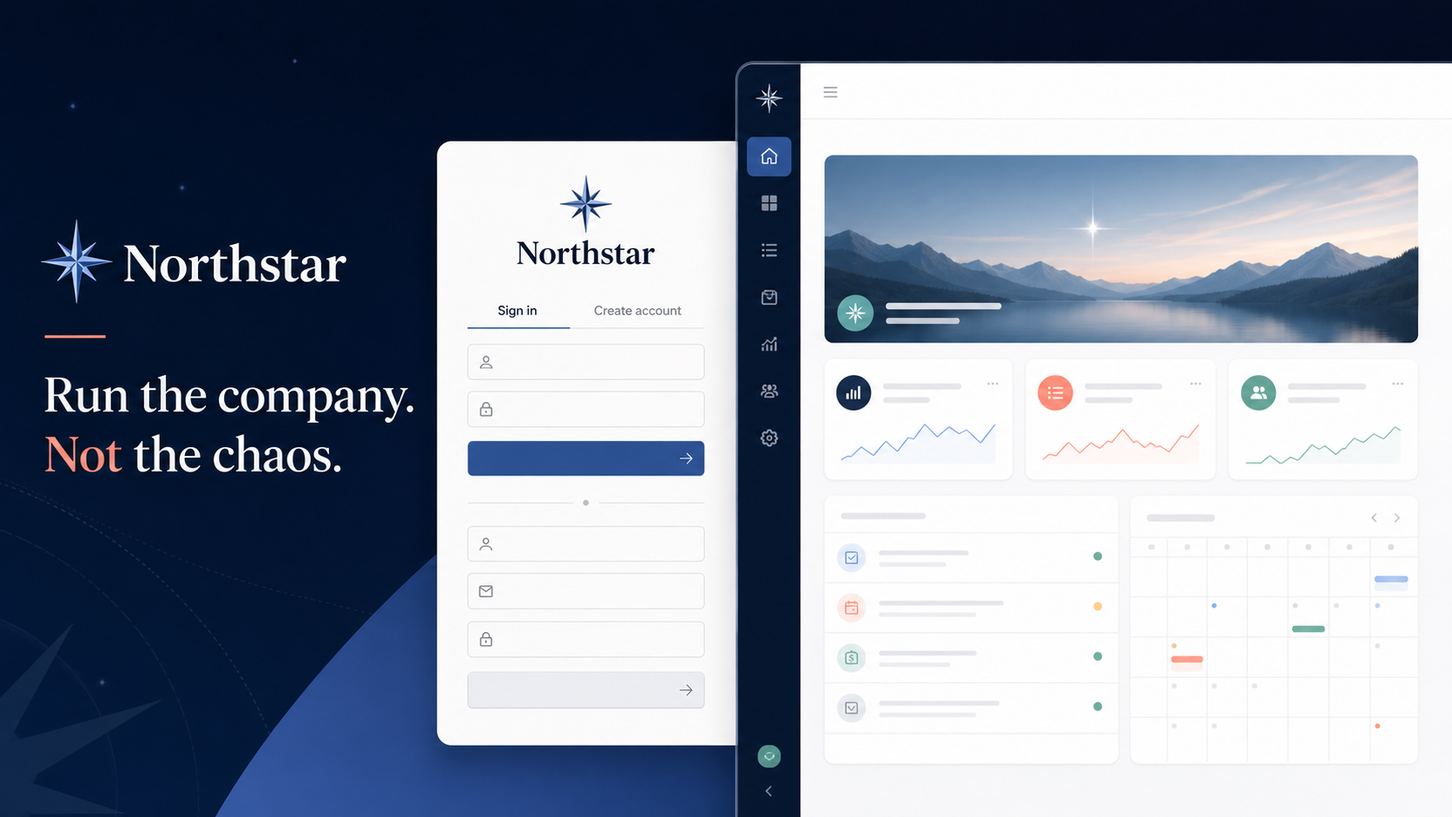
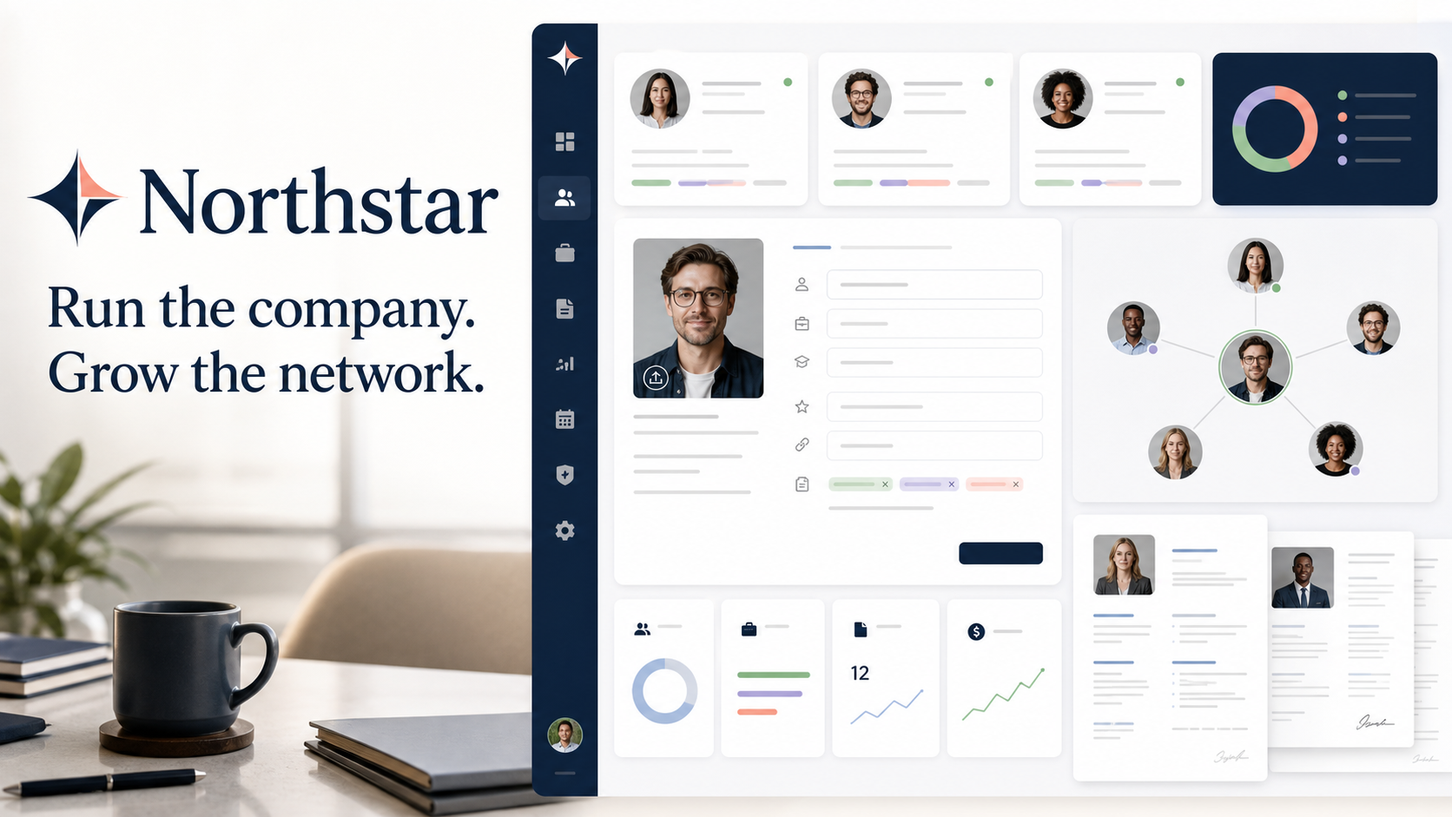
Add profiles resumes and people network

diff --git a/app/startup-os.tsx b/app/startup-os.tsx
@@ -3,8 +3,8 @@
 import { useEffect, useMemo, useState } from "react";
 import type { DashboardData } from "@/db/bootstrap";
 
-const navItems = ["Overview", "Goals", "CRM", "Team", "Reports"] as const;
-const icons: Record<string, string> = { Overview: "⌂", Goals: "◎", CRM: "◇", Team: "◌", Reports: "▤" };
+const navItems = ["Overview", "Goals", "CRM", "People", "Team", "Reports", "Settings"] as const;
+const icons: Record<string, string> = { Overview: "⌂", Goals: "◎", CRM: "◇", People: "◉", Team: "◌", Reports: "▤", Settings: "⚙" };
 
 export function StartupOS({ user, onSignOut }: { user?: { name: string; email: string }; onSignOut?: () => void }) {
   const [data, setData] = useState<DashboardData | null>(null);
@@ -66,11 +66,11 @@ export function StartupOS({ user, onSignOut }: { user?: { name: string; email: s
       <div className="brand"><span className="brand-mark">N</span><span>northstar</span></div>
       <div className="workspace"><span className="avatar small">A</span><span><b>Arc Labs</b><small>Growth workspace</small></span><span className="chevron">⌄</span></div>
       <nav aria-label="Main navigation"><p className="nav-label">Workspace</p>{navItems.map((item) => <button key={item} className={active === item ? "nav-item active" : "nav-item"} onClick={() => { setActive(item); setMenuOpen(false); }}><span>{icons[item]}</span>{item}{item === "Overview" && pending.length ? <em>{pending.length}</em> : null}</button>)}</nav>
-      <div className="sidebar-bottom"><button className="nav-item"><span>⚙</span>Settings</button><div className="profile"><span className="avatar">{user?.name?.slice(0,2).toUpperCase() || "VS"}</span><span><b>{user?.name || "Vijetha"}</b><small>{user?.email || "Founder · Admin"}</small></span><span className="status-dot" /></div></div>
+      <div className="sidebar-bottom"><button className="profile profile-button" onClick={()=>setActive("Settings")}><span className="avatar">{user?.name?.slice(0,2).toUpperCase() || "VS"}</span><span><b>{user?.name || "Vijetha"}</b><small>{user?.email || "Founder · Admin"}</small></span><span className="status-dot" /></button></div>
     </aside>
     <section className="main-area">
       <header className="topbar"><button className="menu-button" onClick={() => setMenuOpen(!menuOpen)} aria-label="Toggle navigation">☰</button><div className="breadcrumb"><span>Arc Labs</span><b>/</b><strong>{active}</strong></div><div className="top-actions"><button className="theme-button" onClick={toggleTheme} aria-label="Switch light or dark mode">◐</button><button className="icon-button" aria-label="Notifications">♢<i>{pending.length}</i></button><button className="primary-button" onClick={() => document.getElementById("ask-input")?.focus()}>✦ Ask Northstar</button><button className="signout-button" onClick={onSignOut}>Sign out</button></div></header>
-      <div className="content">{active === "Overview" ? <Overview data={data} pending={pending} approve={approve} loadingId={loadingId} query={query} setQuery={setQuery} answer={answer} ask={askNorthstar} /> : <ModulePage active={active} data={data} />}{error ? <div className="toast" role="alert">{error}</div> : null}</div>
+      <div className="content">{active === "Overview" ? <Overview data={data} pending={pending} approve={approve} loadingId={loadingId} query={query} setQuery={setQuery} answer={answer} ask={askNorthstar} /> : active === "People" ? <PeoplePage user={user!}/> : active === "Settings" ? <SettingsPage user={user!} onSaved={(next)=>{window.localStorage.setItem("northstar-demo-session",JSON.stringify(next));window.dispatchEvent(new Event("northstar-session-change"));}}/> : <ModulePage active={active} data={data} user={user!} />}{error ? <div className="toast" role="alert">{error}</div> : null}</div>
     </section>
   </main>;
 }
@@ -96,13 +96,14 @@ function Overview({ data, pending, approve, loadingId, query, setQuery, answer, 
 type WorkspaceRecord = { id:string; type:string; title:string; subtitle:string; status:string; value:string; progress:number; owner:string };
 type WorkspacePayload = { session:{organization:{name:string};role:"owner"|"member"}; records:WorkspaceRecord[] };
 
-function ModulePage({ active, data }: { active: string; data: DashboardData }) {
+function ModulePage({ active, data, user }: { active: string; data: DashboardData; user:{name:string;email:string} }) {
   const [workspace,setWorkspace]=useState<WorkspacePayload|null>(null);
   const [showCreate,setShowCreate]=useState(false);
   const [saving,setSaving]=useState(false);
   const [moduleError,setModuleError]=useState("");
   const [form,setForm]=useState({title:"",subtitle:"",value:""});
-  useEffect(()=>{fetch("/api/workspace").then(async response=>{if(!response.ok)throw new Error((await response.json()).error||"Unable to load workspace");return response.json() as Promise<WorkspacePayload>;}).then(setWorkspace).catch(error=>setModuleError(error instanceof Error?error.message:"Unable to load workspace"));},[]);
+  const authHeaders={"x-demo-email":user.email,"x-demo-name":user.name};
+  useEffect(()=>{fetch("/api/workspace",{headers:authHeaders}).then(async response=>{if(!response.ok)throw new Error((await response.json()).error||"Unable to load workspace");return response.json() as Promise<WorkspacePayload>;}).then(setWorkspace).catch(error=>setModuleError(error instanceof Error?error.message:"Unable to load workspace"));},[user.email,user.name]);
   const type=active==="Goals"?"goal":active==="CRM"?"deal":active==="Team"?"role":"report";
   const config: Record<string, { eyebrow:string; title:string; copy:string; singular:string; defaultStatus:string }> = {
     Goals:{eyebrow:"STRATEGY & EXECUTION",title:"Every priority, clearly owned.",copy:"Connect company goals to initiatives, owners, and measurable outcomes.",singular:"goal",defaultStatus:"Planned"},
@@ -111,7 +112,7 @@ function ModulePage({ active, data }: { active: string; data: DashboardData }) {
     Reports:{eyebrow:"AUTOMATED REPORTING",title:"Your operating review is ready.",copy:"Turn live company data into a clear weekly update for your team and investors.",singular:"report",defaultStatus:"Draft"},
   };
   const item=config[active],records=workspace?.records.filter(record=>record.type===type)||[];
-  async function mutate(method:"POST"|"PATCH"|"DELETE",body:Record<string,unknown>){setSaving(true);setModuleError("");try{const response=await fetch("/api/workspace",{method,headers:{"Content-Type":"application/json"},body:JSON.stringify(body)});const payload=await response.json() as WorkspacePayload&{error?:string};if(!response.ok)throw new Error(payload.error||"Unable to save record");setWorkspace(payload);return true;}catch(error){setModuleError(error instanceof Error?error.message:"Unable to save record");return false;}finally{setSaving(false);}}
+  async function mutate(method:"POST"|"PATCH"|"DELETE",body:Record<string,unknown>){setSaving(true);setModuleError("");try{const response=await fetch("/api/workspace",{method,headers:{"Content-Type":"application/json",...authHeaders},body:JSON.stringify(body)});const payload=await response.json() as WorkspacePayload&{error?:string};if(!response.ok)throw new Error(payload.error||"Unable to save record");setWorkspace(payload);return true;}catch(error){setModuleError(error instanceof Error?error.message:"Unable to save record");return false;}finally{setSaving(false);}}
   async function create(event:React.FormEvent){event.preventDefault();if(!form.title.trim())return;const ok=await mutate("POST",{type,title:form.title,subtitle:form.subtitle||`New ${item.singular}`,value:form.value||"—",status:item.defaultStatus,progress:0});if(ok){setForm({title:"",subtitle:"",value:""});setShowCreate(false);}}
   return <>
     <section className="page-heading module-heading"><div><span className="eyebrow">{item.eyebrow}</span><h1>{item.title}</h1><p>{workspace?.session.organization.name||item.copy} · {item.copy}</p></div><button className="primary-button" onClick={()=>setShowCreate(true)}>+ Create {item.singular}</button></section>
@@ -119,4 +120,25 @@ function ModulePage({ active, data }: { active: string; data: DashboardData }) {
     <section className="panel module-table"><div className="panel-header"><div><span className="eyebrow blue">LIVE DATABASE</span><h2>{records.length} {item.singular}{records.length===1?"":"s"}</h2></div><span className="save-state">{saving?"Saving…":"All changes saved"}</span></div>{moduleError?<div className="module-error">{moduleError}</div>:null}{!workspace?<div className="module-empty">Loading your workspace…</div>:records.length===0?<div className="module-empty">No {item.singular}s yet. Create the first one.</div>:records.map(record=><div className="record-row" key={record.id}><span className={`record-icon ${type}`}>{type==="goal"?"◎":type==="deal"?"↗":type==="role"?"◌":"▤"}</span><div className="record-copy"><b>{record.title}</b><small>{record.subtitle} · {record.owner}</small></div><span className="table-progress"><i style={{width:`${record.progress}%`}}/></span><em>{record.value}</em><button className="status-button" onClick={()=>mutate("PATCH",{id:record.id,status:record.status==="Complete"?item.defaultStatus:"Complete",progress:record.status==="Complete"?50:100})}>{record.status}</button>{workspace.session.role==="owner"?<button className="delete-button" onClick={()=>mutate("DELETE",{id:record.id})} aria-label={`Delete ${record.title}`}>×</button>:null}</div>)}</section>
     {showCreate?<div className="modal-backdrop" role="presentation" onMouseDown={()=>setShowCreate(false)}><form className="create-modal" onSubmit={create} onMouseDown={event=>event.stopPropagation()}><div className="modal-heading"><div><span className="eyebrow coral">NEW {item.singular.toUpperCase()}</span><h2>Create {item.singular}</h2></div><button type="button" onClick={()=>setShowCreate(false)}>×</button></div><label>Title<input autoFocus value={form.title} onChange={event=>setForm({...form,title:event.target.value})} placeholder={`Name this ${item.singular}`} required/></label><label>Description<input value={form.subtitle} onChange={event=>setForm({...form,subtitle:event.target.value})} placeholder="Add useful context"/></label><label>{type==="deal"?"Deal value":"Target or label"}<input value={form.value} onChange={event=>setForm({...form,value:event.target.value})} placeholder={type==="deal"?"$25k":"Q3"}/></label><div className="modal-actions"><button type="button" className="cancel-button" onClick={()=>setShowCreate(false)}>Cancel</button><button className="primary-button" disabled={saving}>{saving?"Creating…":`Create ${item.singular}`}</button></div></form></div>:null}
   </>;
+}
+
+type NetworkPayload={profile:{name:string;email:string;headline:string;location:string;bio:string;skills:string;resume_name:string};people:Array<{id:string;name:string;email:string;headline?:string;location?:string;skills?:string;connection_status:string}>};
+const demoHeaders=(user:{name:string;email:string})=>({"x-demo-email":user.email,"x-demo-name":user.name});
+
+function PeoplePage({user}:{user:{name:string;email:string}}){
+  const [data,setData]=useState<NetworkPayload|null>(null),[query,setQuery]=useState(""),[error,setError]=useState("");
+  const load=()=>fetch("/api/people",{headers:demoHeaders(user)}).then(async r=>{const body=await r.json();if(!r.ok)throw new Error(body.error);return body as NetworkPayload}).then(setData).catch(e=>setError(e.message));
+  useEffect(load,[user.email,user.name]);
+  async function connectPerson(id:string){const r=await fetch("/api/people",{method:"POST",headers:{"Content-Type":"application/json",...demoHeaders(user)},body:JSON.stringify({recipientId:id})});const body=await r.json();if(r.ok)setData(body);else setError(body.error);}
+  const people=data?.people.filter(p=>`${p.name} ${p.headline||""} ${p.location||""}`.toLowerCase().includes(query.toLowerCase()))||[];
+  return <><section className="page-heading people-heading"><div><span className="eyebrow coral">PEOPLE NETWORK</span><h1>Find the people who move ideas forward.</h1><p>A trusted founder network, built into your operating system.</p></div><div className="network-count"><b>{data?.people.filter(p=>p.connection_status==="connected").length||0}</b><span>connections</span></div></section><section className="people-toolbar"><input value={query} onChange={e=>setQuery(e.target.value)} placeholder="Search by name, role, or location…"/><button>Discover people</button></section>{error?<div className="module-error">{error}</div>:null}<section className="people-grid">{people.map((person,index)=><article className="person-card" key={person.id}><div className={`person-cover cover-${index%4}`}><span>{person.name.split(" ").map(n=>n[0]).join("")}</span></div><div className="person-body"><h3>{person.name}</h3><p>{person.headline||["Product leader","Growth strategist","Founding engineer","Design systems lead"][index%4]}</p><small>⌖ {person.location||["San Francisco","Bengaluru","Seoul","London"][index%4]}</small><div className="skill-row">{(person.skills||["Strategy,Product","Growth,GTM","Engineering,AI","Design,Systems"][index%4]).split(",").slice(0,2).map(skill=><span key={skill}>{skill}</span>)}</div><button className={person.connection_status==="connected"?"connected":""} onClick={()=>connectPerson(person.id)} disabled={person.connection_status==="connected"}>{person.connection_status==="connected"?"✓ Connected":"＋ Connect"}</button></div></article>)}</section></>;
+}
+
+function SettingsPage({user,onSaved}:{user:{name:string;email:string};onSaved:(u:{name:string;email:string})=>void}){
+  const [form,setForm]=useState({name:user.name,email:user.email,headline:"Founder & CEO",location:"Bengaluru, India",bio:"Building thoughtful products and high-agency teams.",skills:"Strategy, Product, Fundraising"});
+  const [resume,setResume]=useState(""),[status,setStatus]=useState(""),[tab,setTab]=useState("Profile");
+  useEffect(()=>{fetch("/api/people",{headers:demoHeaders(user)}).then(r=>r.json()).then((d:NetworkPayload)=>{if(d.profile){setForm({...form,...d.profile,name:d.profile.name||user.name,email:user.email});setResume(d.profile.resume_name||"");}}).catch(()=>{});},[user.email]);
+  async function save(e:React.FormEvent){e.preventDefault();setStatus("Saving…");const r=await fetch("/api/people",{method:"PATCH",headers:{"Content-Type":"application/json",...demoHeaders(user)},body:JSON.stringify(form)});if(r.ok){onSaved({name:form.name,email:user.email});setStatus("Changes saved");}else setStatus("Could not save changes");}
+  async function upload(file?:File){if(!file)return;setStatus("Uploading résumé…");const body=new FormData();body.append("resume",file);const r=await fetch("/api/resume",{method:"POST",headers:demoHeaders(user),body});const data=await r.json();if(r.ok){setResume(data.name);setStatus("Résumé uploaded");}else setStatus(data.error);}
+  return <><section className="page-heading"><div><span className="eyebrow blue">WORKSPACE SETTINGS</span><h1>Make Northstar yours.</h1><p>Manage your public identity, documents, and workspace preferences.</p></div></section><div className="settings-layout"><aside className="settings-nav">{["Profile","Documents","Appearance","Security"].map(item=><button key={item} className={tab===item?"active":""} onClick={()=>setTab(item)}>{item}</button>)}</aside><section className="settings-card">{tab==="Profile"?<form onSubmit={save}><div className="profile-editor-head"><span className="profile-photo">{form.name.slice(0,2).toUpperCase()}</span><div><h2>Public profile</h2><p>This is how founders and collaborators see you.</p></div></div><div className="form-grid"><label>Full name<input value={form.name} onChange={e=>setForm({...form,name:e.target.value})}/></label><label>Email<input value={form.email} disabled/></label><label className="wide">Professional headline<input value={form.headline} onChange={e=>setForm({...form,headline:e.target.value})}/></label><label>Location<input value={form.location} onChange={e=>setForm({...form,location:e.target.value})}/></label><label>Skills<input value={form.skills} onChange={e=>setForm({...form,skills:e.target.value})}/></label><label className="wide">About<textarea value={form.bio} onChange={e=>setForm({...form,bio:e.target.value})}/></label></div><button className="primary-button">Save profile</button></form>:tab==="Documents"?<div><h2>Résumé & documents</h2><p>Upload your résumé so collaborators can understand your experience.</p><label className="resume-drop"><input type="file" accept=".pdf,.doc,.docx" onChange={e=>upload(e.target.files?.[0])}/><span>⇧</span><b>{resume||"Drop your résumé here"}</b><small>PDF, DOC, or DOCX · Maximum 5 MB</small></label></div>:tab==="Appearance"?<div><h2>Appearance</h2><p>Northstar follows your saved light or dark theme preference.</p><button className="primary-button" onClick={()=>{const next=document.documentElement.dataset.theme==="dark"?"light":"dark";document.documentElement.dataset.theme=next;localStorage.setItem("northstar-theme",next);}}>Toggle light / dark</button></div>:<div><h2>Demo account security</h2><p>This hackathon build uses device-local demo sessions. Production identity can be connected before launch.</p><div className="security-note">Your workspace data remains stored in the application database. Never use a real password in this demo.</div></div>}{status?<p className="save-message">{status}</p>:null}</section></div></>;
 }

diff --git a/app/globals.css b/app/globals.css
@@ -341,6 +341,11 @@ html[data-theme="dark"] .record-copy b { color:#eef2f6; }
 html[data-theme="dark"] .record-row { border-color:#252e39; }
 html[data-theme="dark"] .status-button { background:#1b232d; border-color:#303b48; color:#b8c3ce; }
 html[data-theme="dark"] .auth-page { background:#0e1319; }
+
+/* Odoo-inspired modular workspace: original Northstar visual language */
+.profile-button{width:100%;background:none;border:0;color:inherit;text-align:left;cursor:pointer}.people-heading{align-items:flex-end}.network-count{display:flex;align-items:baseline;gap:8px;padding:12px 18px;border:1px solid var(--line);border-radius:14px;background:var(--panel)}.network-count b{font-size:25px}.network-count span{font-size:10px;color:var(--muted)}.people-toolbar{display:flex;gap:10px;margin:0 0 18px}.people-toolbar input{flex:1;border:1px solid var(--line);background:var(--panel);color:var(--text);border-radius:12px;padding:13px 16px;outline:none}.people-toolbar input:focus{border-color:var(--blue)}.people-toolbar button{border:0;border-radius:12px;background:#15263a;color:white;padding:0 18px;font-weight:700}.people-grid{display:grid;grid-template-columns:repeat(4,minmax(0,1fr));gap:15px}.person-card{background:var(--panel);border:1px solid var(--line);border-radius:18px;overflow:hidden;box-shadow:0 8px 24px #1420330a;transition:.22s}.person-card:hover{transform:translateY(-3px);box-shadow:0 18px 35px #14203318}.person-cover{height:86px;display:grid;place-items:end center;background:linear-gradient(135deg,#dcecff,#b6d3ef)}.cover-1{background:linear-gradient(135deg,#ffe1d6,#f3bda9)}.cover-2{background:linear-gradient(135deg,#d6f2e5,#9ed8c1)}.cover-3{background:linear-gradient(135deg,#eee4ff,#c6b5e8)}.person-cover span{transform:translateY(25px);display:grid;place-items:center;width:54px;height:54px;border-radius:17px;background:#17324c;color:white;border:4px solid var(--panel);font-weight:800;font-size:15px}.person-body{padding:34px 17px 17px;text-align:center}.person-body h3{font-size:15px;margin:0 0 5px}.person-body p{font-size:10px;color:var(--text);margin:0 0 5px}.person-body small{font-size:9px;color:var(--muted)}.skill-row{display:flex;justify-content:center;gap:5px;margin:13px 0}.skill-row span{font-size:8px;background:var(--soft);border-radius:99px;padding:5px 8px;color:var(--muted)}.person-body button{width:100%;border:1px solid #9cb9d3;background:transparent;color:#235a83;border-radius:9px;padding:9px;font-size:10px;font-weight:800;cursor:pointer}.person-body button.connected{border-color:#a8d8c4;color:#287457;background:#edf9f3}.settings-layout{display:grid;grid-template-columns:190px 1fr;gap:18px;align-items:start}.settings-nav,.settings-card{background:var(--panel);border:1px solid var(--line);border-radius:17px}.settings-nav{padding:8px}.settings-nav button{display:block;width:100%;border:0;background:none;color:var(--muted);text-align:left;padding:11px 13px;border-radius:10px;font-size:10px;font-weight:700;cursor:pointer}.settings-nav button.active{background:#e9f1f8;color:#234f71}.settings-card{padding:28px;min-height:450px}.settings-card h2{font-size:20px;margin:0 0 6px}.settings-card>div>p,.profile-editor-head p{color:var(--muted);font-size:10px}.profile-editor-head{display:flex;align-items:center;gap:14px;padding-bottom:21px;margin-bottom:20px;border-bottom:1px solid var(--line)}.profile-photo{display:grid;place-items:center;width:58px;height:58px;border-radius:19px;background:linear-gradient(135deg,#17324c,#4f7da4);color:white;font-weight:800}.form-grid{display:grid;grid-template-columns:1fr 1fr;gap:15px;margin-bottom:22px}.form-grid label{font-size:9px;font-weight:800;color:var(--muted);display:flex;flex-direction:column;gap:7px}.form-grid .wide{grid-column:1/-1}.form-grid input,.form-grid textarea{border:1px solid var(--line);background:var(--bg);color:var(--text);border-radius:10px;padding:11px 12px;font:inherit}.form-grid textarea{min-height:85px;resize:vertical}.resume-drop{margin-top:25px;min-height:240px;border:1.5px dashed #9db4c8;border-radius:16px;background:var(--soft);display:flex;flex-direction:column;align-items:center;justify-content:center;gap:8px;cursor:pointer}.resume-drop input{display:none}.resume-drop span{font-size:28px;color:var(--blue)}.resume-drop b{font-size:12px}.resume-drop small{font-size:9px;color:var(--muted)}.save-message{color:#277252;font-size:10px;font-weight:800;margin-top:16px}.security-note{margin-top:20px;border-left:3px solid var(--coral);background:var(--soft);padding:15px;font-size:10px;color:var(--muted)}
+html[data-theme="dark"] .settings-nav button.active{background:#203247;color:#b9daf3}html[data-theme="dark"] .person-card,html[data-theme="dark"] .settings-nav,html[data-theme="dark"] .settings-card,html[data-theme="dark"] .network-count,html[data-theme="dark"] .people-toolbar input{background:#151b23;border-color:#28313d}@media(max-width:1000px){.people-grid{grid-template-columns:repeat(2,1fr)}}
+@media(max-width:760px){.people-grid{grid-template-columns:1fr}.settings-layout{grid-template-columns:1fr}.settings-nav{display:flex;overflow:auto}.settings-nav button{white-space:nowrap}.form-grid{grid-template-columns:1fr}.form-grid .wide{grid-column:auto}.people-toolbar{flex-direction:column}.people-toolbar button{padding:12px}}
 html[data-theme="dark"] .auth-panel { background:#0e1319; }
 html[data-theme="dark"] .auth-card h2 { color:#f2f5f8; }
 html[data-theme="dark"] .auth-card>p { color:#9aa7b5; }

diff --git a/app/api/workspace/route.ts b/app/api/workspace/route.ts
@@ -1,8 +1,7 @@
-import { getChatGPTUser } from "@/app/chatgpt-auth";
 import { createRecord, deleteRecord, getOrCreateSession, listRecords, updateRecord } from "@/db/workspace";
 
-async function session() { const user=await getChatGPTUser(); if(!user) return null; return getOrCreateSession(user.email,user.displayName); }
-export async function GET(){try{const current=await session();if(!current)return Response.json({error:"Authentication required"},{status:401});return Response.json({session:current,records:await listRecords(current)});}catch(error){return Response.json({error:error instanceof Error?error.message:"Unable to load workspace"},{status:500});}}
-export async function POST(request:Request){try{const current=await session();if(!current)return Response.json({error:"Authentication required"},{status:401});const input=await request.json() as {type?:string;title?:string;subtitle?:string;status?:string;value?:string;progress?:number};if(!input.type||!input.title?.trim())return Response.json({error:"Type and title are required"},{status:400});await createRecord(current,{...input,title:input.title.trim()});return Response.json({session:current,records:await listRecords(current)},{status:201});}catch(error){return Response.json({error:error instanceof Error?error.message:"Unable to create record"},{status:500});}}
-export async function PATCH(request:Request){try{const current=await session();if(!current)return Response.json({error:"Authentication required"},{status:401});const input=await request.json() as {id?:string;title?:string;status?:string;progress?:number};if(!input.id)return Response.json({error:"Record id is required"},{status:400});if(!(await updateRecord(current,input.id,input)))return Response.json({error:"Record not found"},{status:404});return Response.json({session:current,records:await listRecords(current)});}catch(error){return Response.json({error:error instanceof Error?error.message:"Unable to update record"},{status:500});}}
-export async function DELETE(request:Request){try{const current=await session();if(!current)return Response.json({error:"Authentication required"},{status:401});const input=await request.json() as {id?:string};if(!input.id)return Response.json({error:"Record id is required"},{status:400});await deleteRecord(current,input.id);return Response.json({session:current,records:await listRecords(current)});}catch(error){return Response.json({error:error instanceof Error?error.message:"Unable to delete record"},{status:403});}}
+async function session(request:Request) { const email=request.headers.get("x-demo-email"); const name=request.headers.get("x-demo-name"); if(!email||!name)return null; return getOrCreateSession(email,name); }
+export async function GET(request:Request){try{const current=await session(request);if(!current)return Response.json({error:"Authentication required"},{status:401});return Response.json({session:current,records:await listRecords(current)});}catch(error){return Response.json({error:error instanceof Error?error.message:"Unable to load workspace"},{status:500});}}
+export async function POST(request:Request){try{const current=await session(request);if(!current)return Response.json({error:"Authentication required"},{status:401});const input=await request.json() as {type?:string;title?:string;subtitle?:string;status?:string;value?:string;progress?:number};if(!input.type||!input.title?.trim())return Response.json({error:"Type and title are required"},{status:400});await createRecord(current,{...input,title:input.title.trim()});return Response.json({session:current,records:await listRecords(current)},{status:201});}catch(error){return Response.json({error:error instanceof Error?error.message:"Unable to create record"},{status:500});}}
+export async function PATCH(request:Request){try{const current=await session(request);if(!current)return Response.json({error:"Authentication required"},{status:401});const input=await request.json() as {id?:string;title?:string;status?:string;progress?:number};if(!input.id)return Response.json({error:"Record id is required"},{status:400});if(!(await updateRecord(current,input.id,input)))return Response.json({error:"Record not found"},{status:404});return Response.json({session:current,records:await listRecords(current)});}catch(error){return Response.json({error:error instanceof Error?error.message:"Unable to update record"},{status:500});}}
+export async function DELETE(request:Request){try{const current=await session(request);if(!current)return Response.json({error:"Authentication required"},{status:401});const input=await request.json() as {id?:string};if(!input.id)return Response.json({error:"Record id is required"},{status:400});await deleteRecord(current,input.id);return Response.json({session:current,records:await listRecords(current)});}catch(error){return Response.json({error:error instanceof Error?error.message:"Unable to delete record"},{status:403});}}

diff --git a/db/workspace.ts b/db/workspace.ts
@@ -16,8 +16,23 @@ export async function ensureWorkspaceDatabase() {
     database.prepare("CREATE TABLE IF NOT EXISTS workspace_records (id TEXT PRIMARY KEY, organization_id TEXT NOT NULL, type TEXT NOT NULL, title TEXT NOT NULL, subtitle TEXT NOT NULL, status TEXT NOT NULL, value TEXT NOT NULL, progress INTEGER NOT NULL, owner TEXT NOT NULL, created_at TEXT NOT NULL, updated_at TEXT NOT NULL)"),
     database.prepare("CREATE INDEX IF NOT EXISTS memberships_user_idx ON memberships(user_id)"),
     database.prepare("CREATE INDEX IF NOT EXISTS workspace_records_org_type_idx ON workspace_records(organization_id, type)"),
+    database.prepare("CREATE TABLE IF NOT EXISTS profiles (user_id TEXT PRIMARY KEY, headline TEXT NOT NULL DEFAULT '', location TEXT NOT NULL DEFAULT '', bio TEXT NOT NULL DEFAULT '', skills TEXT NOT NULL DEFAULT '', resume_name TEXT NOT NULL DEFAULT '', resume_key TEXT NOT NULL DEFAULT '', updated_at TEXT NOT NULL)"),
+    database.prepare("CREATE TABLE IF NOT EXISTS connections (id TEXT PRIMARY KEY, requester_id TEXT NOT NULL, recipient_id TEXT NOT NULL, status TEXT NOT NULL, created_at TEXT NOT NULL)"),
+    database.prepare("CREATE INDEX IF NOT EXISTS connections_people_idx ON connections(requester_id, recipient_id)"),
   ]);
 }
+
+export async function getNetwork(session:WorkspaceSession){
+  await ensureWorkspaceDatabase(); const database=db();
+  const seeds=[["Maya Chen","maya@northstar.demo","Product leader","San Francisco"],["Arjun Rao","arjun@northstar.demo","Growth strategist","Bengaluru"],["Leah Kim","leah@northstar.demo","Founding engineer","Seoul"],["Noah Williams","noah@northstar.demo","Design systems lead","London"]];
+  for(const [name,email] of seeds){const found=await database.prepare("SELECT id FROM users WHERE email=?").bind(email).first<{id:string}>();if(!found)await database.prepare("INSERT INTO users (id,email,name,created_at) VALUES (?,?,?,?)").bind(id("usr"),email,name,now()).run();}
+  const profile=await database.prepare("SELECT headline,location,bio,skills,resume_name FROM profiles WHERE user_id=?").bind(session.user.id).first();
+  const people=await database.prepare("SELECT u.id,u.name,u.email,p.headline,p.location,p.skills,CASE WHEN c.id IS NULL THEN 'none' ELSE c.status END AS connection_status FROM users u LEFT JOIN profiles p ON p.user_id=u.id LEFT JOIN connections c ON ((c.requester_id=? AND c.recipient_id=u.id) OR (c.recipient_id=? AND c.requester_id=u.id)) WHERE u.id<>? ORDER BY u.name").bind(session.user.id,session.user.id,session.user.id).all();
+  return {profile:{name:session.user.name,email:session.user.email,headline:"",location:"",bio:"",skills:"",resume_name:"",...(profile||{})},people:people.results};
+}
+export async function saveProfile(session:WorkspaceSession,input:{name?:string;headline?:string;location?:string;bio?:string;skills?:string}){const database=db();await database.prepare("UPDATE users SET name=? WHERE id=?").bind(input.name||session.user.name,session.user.id).run();await database.prepare("INSERT INTO profiles (user_id,headline,location,bio,skills,resume_name,resume_key,updated_at) VALUES (?,?,?,?,?,'','',?) ON CONFLICT(user_id) DO UPDATE SET headline=excluded.headline,location=excluded.location,bio=excluded.bio,skills=excluded.skills,updated_at=excluded.updated_at").bind(session.user.id,input.headline||"",input.location||"",input.bio||"",input.skills||"",now()).run();}
+export async function connect(session:WorkspaceSession,recipientId:string){const existing=await db().prepare("SELECT id,status FROM connections WHERE ((requester_id=? AND recipient_id=?) OR (requester_id=? AND recipient_id=?))").bind(session.user.id,recipientId,recipientId,session.user.id).first<{id:string;status:string}>();if(existing)return existing.status;await db().prepare("INSERT INTO connections (id,requester_id,recipient_id,status,created_at) VALUES (?,?,?,?,?)").bind(id("con"),session.user.id,recipientId,"connected",now()).run();return "connected";}
+export async function saveResume(session:WorkspaceSession,name:string,key:string){await db().prepare("INSERT INTO profiles (user_id,headline,location,bio,skills,resume_name,resume_key,updated_at) VALUES (?,'','','','',?,?,?) ON CONFLICT(user_id) DO UPDATE SET resume_name=excluded.resume_name,resume_key=excluded.resume_key,updated_at=excluded.updated_at").bind(session.user.id,name,key,now()).run();}
 
 export async function getOrCreateSession(email: string, displayName: string): Promise<WorkspaceSession> {
   await ensureWorkspaceDatabase(); const database = db();

diff --git a/app/api/people/route.ts b/app/api/people/route.ts
@@ -1,0 +1,5 @@
+import { connect, getNetwork, getOrCreateSession, saveProfile } from "@/db/workspace";
+async function current(request:Request){const email=request.headers.get("x-demo-email"),name=request.headers.get("x-demo-name");return email&&name?getOrCreateSession(email,name):null;}
+export async function GET(request:Request){const session=await current(request);if(!session)return Response.json({error:"Authentication required"},{status:401});return Response.json(await getNetwork(session));}
+export async function PATCH(request:Request){const session=await current(request);if(!session)return Response.json({error:"Authentication required"},{status:401});const input=await request.json();await saveProfile(session,input);return Response.json(await getNetwork(session));}
+export async function POST(request:Request){const session=await current(request);if(!session)return Response.json({error:"Authentication required"},{status:401});const {recipientId}=await request.json() as {recipientId?:string};if(!recipientId)return Response.json({error:"Person is required"},{status:400});await connect(session,recipientId);return Response.json(await getNetwork(session));}

diff --git a/db/schema.ts b/db/schema.ts
@@ -25,3 +25,5 @@ export const memberships = sqliteTable("memberships", {
 export const workspaceRecords = sqliteTable("workspace_records", {
   id: text("id").primaryKey(), organizationId: text("organization_id").notNull(), type: text("type").notNull(), title: text("title").notNull(), subtitle: text("subtitle").notNull(), status: text("status").notNull(), value: text("value").notNull(), progress: integer("progress").notNull(), owner: text("owner").notNull(), createdAt: text("created_at").notNull(), updatedAt: text("updated_at").notNull(),
 });
+export const profiles = sqliteTable("profiles", { userId:text("user_id").primaryKey(), headline:text("headline").notNull(), location:text("location").notNull(), bio:text("bio").notNull(), skills:text("skills").notNull(), resumeName:text("resume_name").notNull(), resumeKey:text("resume_key").notNull(), updatedAt:text("updated_at").notNull() });
+export const connections = sqliteTable("connections", { id:text("id").primaryKey(), requesterId:text("requester_id").notNull(), recipientId:text("recipient_id").notNull(), status:text("status").notNull(), createdAt:text("created_at").notNull() });

diff --git a/app/api/resume/route.ts b/app/api/resume/route.ts
@@ -1,0 +1,3 @@
+import { env } from "cloudflare:workers";
+import { getOrCreateSession, saveResume } from "@/db/workspace";
+export async function POST(request:Request){const email=request.headers.get("x-demo-email"),name=request.headers.get("x-demo-name");if(!email||!name)return Response.json({error:"Authentication required"},{status:401});const session=await getOrCreateSession(email,name);const form=await request.formData();const file=form.get("resume");if(!(file instanceof File))return Response.json({error:"Choose a résumé file"},{status:400});if(file.size>5_000_000)return Response.json({error:"Résumé must be under 5 MB"},{status:400});if(!["application/pdf","application/msword","application/vnd.openxmlformats-officedocument.wordprocessingml.document"].includes(file.type))return Response.json({error:"Upload a PDF, DOC, or DOCX file"},{status:400});const key=`resumes/${session.user.id}/${crypto.randomUUID()}-${file.name}`;await env.FILES.put(key,file.stream(),{httpMetadata:{contentType:file.type}});await saveResume(session,file.name,key);return Response.json({name:file.name});}
